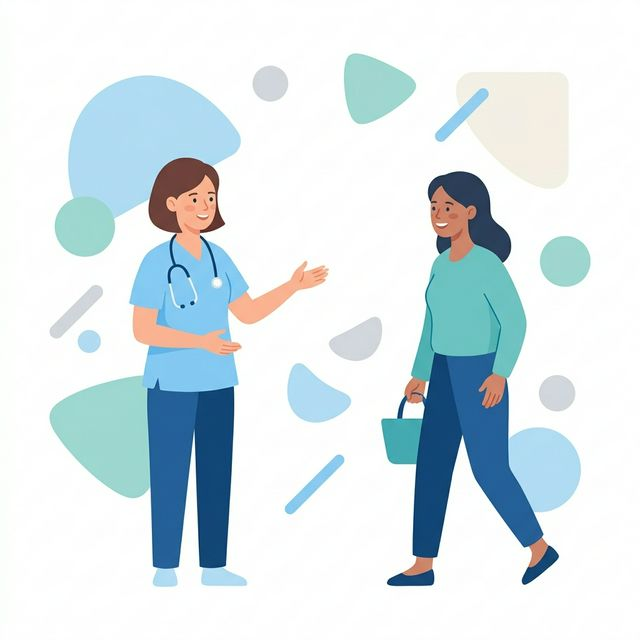
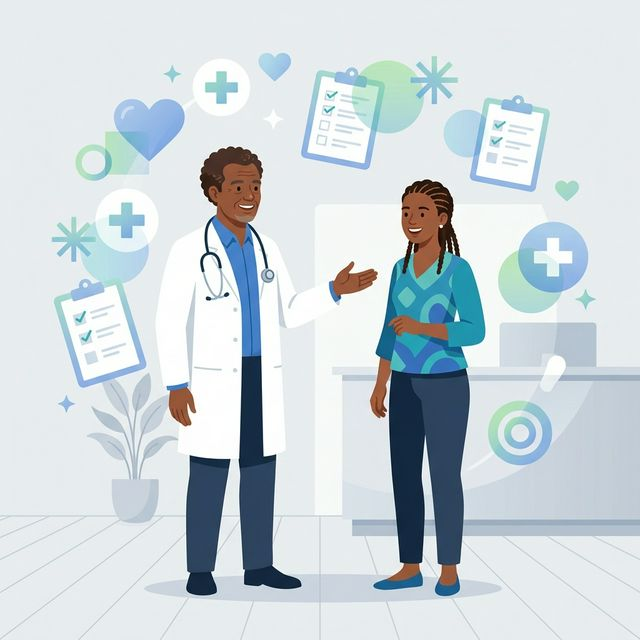
fix(ui): dark mode adaptive illustrations, keyboard scroll, Ethiopian-specific art
- Regenerate 4 screen-specific illustrations with Ethiopian skin tones
- Fix AuthContainer dark mode: muted dark blue bg instead of white
- Fix keyboard scrolling: Android behavior='height', bounces enabled, card minHeight
- Illustration uses 'contain' at 80% for better framing
- Status bar, back button ring adapt dynamically to dark/light mode
- Each screen now has its own dedicated illustration

diff --git a/src/components/ui/AuthContainer.tsx b/src/components/ui/AuthContainer.tsx
@@ -19,26 +19,27 @@ export const AuthContainer = React.memo(function AuthContainer({
   showBackButton = false,
 }: AuthContainerProps) {
   const { theme, isDark } = useTheme();
-  // Using light explicitly for the status bar if the top is white, otherwise match theme
   const styles = useMemo(() => createAuthContainerStyles(theme), [theme]);
   const insets = useSafeAreaInsets();
   const router = useRouter();
 
+  // In dark mode the illustration area uses a muted dark tone instead of white
+  const illustrationBg = isDark ? '#1A2332' : '#EFF4F8';
+  const statusBarStyle = isDark ? 'light' : 'dark';
+  const backIconColor = isDark ? '#FFFFFF' : '#000000';
+  const backRingBg = isDark ? 'rgba(0, 0, 0, 0.4)' : 'rgba(255, 255, 255, 0.8)';
+
   return (
     <>
-      <StatusBar style="dark" backgroundColor="transparent" translucent />
-      {/* 
-        We force a white background on the root container so the generated white-background 
-        illustrations blend perfectly, regardless of dark/light mode for the top half.
-      */}
-      <View style={[styles.container, { backgroundColor: '#FFFFFF' }]}>
+      <StatusBar style={statusBarStyle} backgroundColor="transparent" translucent />
+      <View style={[styles.container, { backgroundColor: illustrationBg }]}>
         
         {/* Top Illustration Area */}
-        <View style={styles.illustrationContainer}>
+        <View style={[styles.illustrationContainer, { backgroundColor: illustrationBg }]}>
           <Image 
             source={illustration} 
             style={styles.illustration} 
-            resizeMode="cover" 
+            resizeMode="contain"
           />
         </View>
 
@@ -48,23 +49,24 @@ export const AuthContainer = React.memo(function AuthContainer({
             onPress={() => router.canGoBack() && router.back()}
             hitSlop={{ top: 15, bottom: 15, left: 15, right: 15 }}
           >
-            <View style={styles.backButtonRing}>
-              <Ionicons name="arrow-back" size={24} color="#000000" />
+            <View style={[styles.backButtonRing, { backgroundColor: backRingBg }]}>
+              <Ionicons name="arrow-back" size={24} color={backIconColor} />
             </View>
           </TouchableOpacity>
         )}
 
         <KeyboardAvoidingView
           style={{ flex: 1, width: '100%' }}
-          behavior={Platform.OS === 'ios' ? 'padding' : undefined}
+          behavior={Platform.OS === 'ios' ? 'padding' : 'height'}
+          keyboardVerticalOffset={0}
         >
           <ScrollView
             contentContainerStyle={styles.scrollContent}
             showsVerticalScrollIndicator={false}
             keyboardShouldPersistTaps="handled"
-            bounces={false}
+            bounces={true}
           >
-            {/* Invisible spacer to push the card down over the illustration */}
+            {/* Spacer pushes the card down over the illustration */}
             <View style={styles.spacer} /> 
             
             <View style={styles.card}>

diff --git a/src/components/ui/AuthContainer.styles.ts b/src/components/ui/AuthContainer.styles.ts
@@ -1,13 +1,12 @@
 import { StyleSheet, Dimensions } from 'react-native';
 import type { Theme } from '../../theme';
 
-const { width, height } = Dimensions.get('window');
+const { height } = Dimensions.get('window');
 
 export const createAuthContainerStyles = (theme: Theme) =>
   StyleSheet.create({
     container: {
       flex: 1,
-      // Root will be overridden to white in the component so illustrations blend
       backgroundColor: theme.colors.background,
     },
     illustrationContainer: {
@@ -15,15 +14,16 @@ export const createAuthContainerStyles = (theme: Theme) =>
       top: 0,
       left: 0,
       right: 0,
-      height: height * 0.45,
+      height: height * 0.42,
       width: '100%',
       justifyContent: 'center',
       alignItems: 'center',
-      backgroundColor: '#FFFFFF', 
+      paddingTop: 30,
+      paddingHorizontal: 20,
     },
     illustration: {
-      width: '100%',
-      height: '100%',
+      width: '80%',
+      height: '80%',
     },
     backButton: {
       position: 'absolute',
@@ -31,7 +31,6 @@ export const createAuthContainerStyles = (theme: Theme) =>
       zIndex: 10,
     },
     backButtonRing: {
-      backgroundColor: 'rgba(255, 255, 255, 0.8)',
       borderRadius: 99,
       padding: 8,
       shadowColor: '#000',
@@ -44,21 +43,23 @@ export const createAuthContainerStyles = (theme: Theme) =>
       flexGrow: 1,
     },
     spacer: {
-      height: height * 0.35, // Pushes the card down, leaving 35% of the screen for the image
+      height: height * 0.35,
     },
     card: {
       flex: 1,
-      backgroundColor: theme.colors.background, // Adapts to dark/light mode
+      backgroundColor: theme.colors.background,
       borderTopLeftRadius: 32,
       borderTopRightRadius: 32,
       paddingHorizontal: theme.spacing.xl,
       paddingTop: theme.spacing['2xl'],
       paddingBottom: theme.spacing['4xl'],
-      // Soft shadow indicating it overhangs the image
+      // Subtle shadow for the card overlap effect
       shadowColor: theme.colors.text,
-      shadowOffset: { width: 0, height: -10 },
-      shadowOpacity: 0.05,
-      shadowRadius: 20,
+      shadowOffset: { width: 0, height: -6 },
+      shadowOpacity: 0.06,
+      shadowRadius: 16,
       elevation: 10,
+      // Bottom padding so the last input is always reachable when keyboard is open
+      minHeight: height * 0.65,
     },
   });

diff --git a/src/features/patient/components/MedicalInfoForm.tsx b/src/features/patient/components/MedicalInfoForm.tsx
@@ -1,14 +1,14 @@
 import React, { useCallback, useEffect, useMemo, useState } from 'react';
-import { Text, View, StyleSheet } from 'react-native';
-import { ScreenContainer, Input, Button, Card, Banner } from '../../../components/ui';
+import { StyleSheet, Text, View } from 'react-native';
+import { Banner, Button, Card, Input, ScreenContainer } from '../../../components/ui';
 import { usePatientStore } from '../../../store/patient.store';
-import { useTheme } from '../../../theme';
 import type { Theme } from '../../../theme';
+import { useTheme } from '../../../theme';
 import type { PatientProfileUpdate } from '../types/patient.types';
 
 const BLOOD_TYPES = ['A+', 'A-', 'B+', 'B-', 'AB+', 'AB-', 'O+', 'O-'];
 
-const GENDER_OPTIONS = ['Male', 'Female', 'Other'];
+const GENDER_OPTIONS = ['Male', 'Female'];
 
 export function MedicalInfoForm() {
   const { theme } = useTheme();

diff --git a/app/(auth)/forgot-password.tsx b/app/(auth)/forgot-password.tsx
@@ -35,7 +35,7 @@ export default function ForgotPasswordScreen() {
 
   return (
     <AuthContainer 
-      illustration={require('../../assets/images/verification-illustration.png')}
+      illustration={require('../../assets/images/forgot-password-illustration.png')}
       showBackButton
     >
       <View style={styles.container}>

diff --git a/app/(auth)/verify-email.tsx b/app/(auth)/verify-email.tsx
@@ -47,7 +47,7 @@ export default function VerifyEmailScreen() {
 
   return (
     <AuthContainer 
-      illustration={require('../../assets/images/verification-illustration.png')}
+      illustration={require('../../assets/images/verify-email-illustration.png')}
       showBackButton
     >
       <View style={styles.container}>

diff --git a/src/features/doctor/components/PendingApproval.tsx b/src/features/doctor/components/PendingApproval.tsx
@@ -85,7 +85,7 @@ export function PendingApproval() {
 
   return (
     <AuthContainer
-      illustration={require('../../../../assets/images/verification-illustration.png')}
+      illustration={require('../../../../assets/images/verify-email-illustration.png')}
       showBackButton={false}
     >
       <View style={styles.container}>